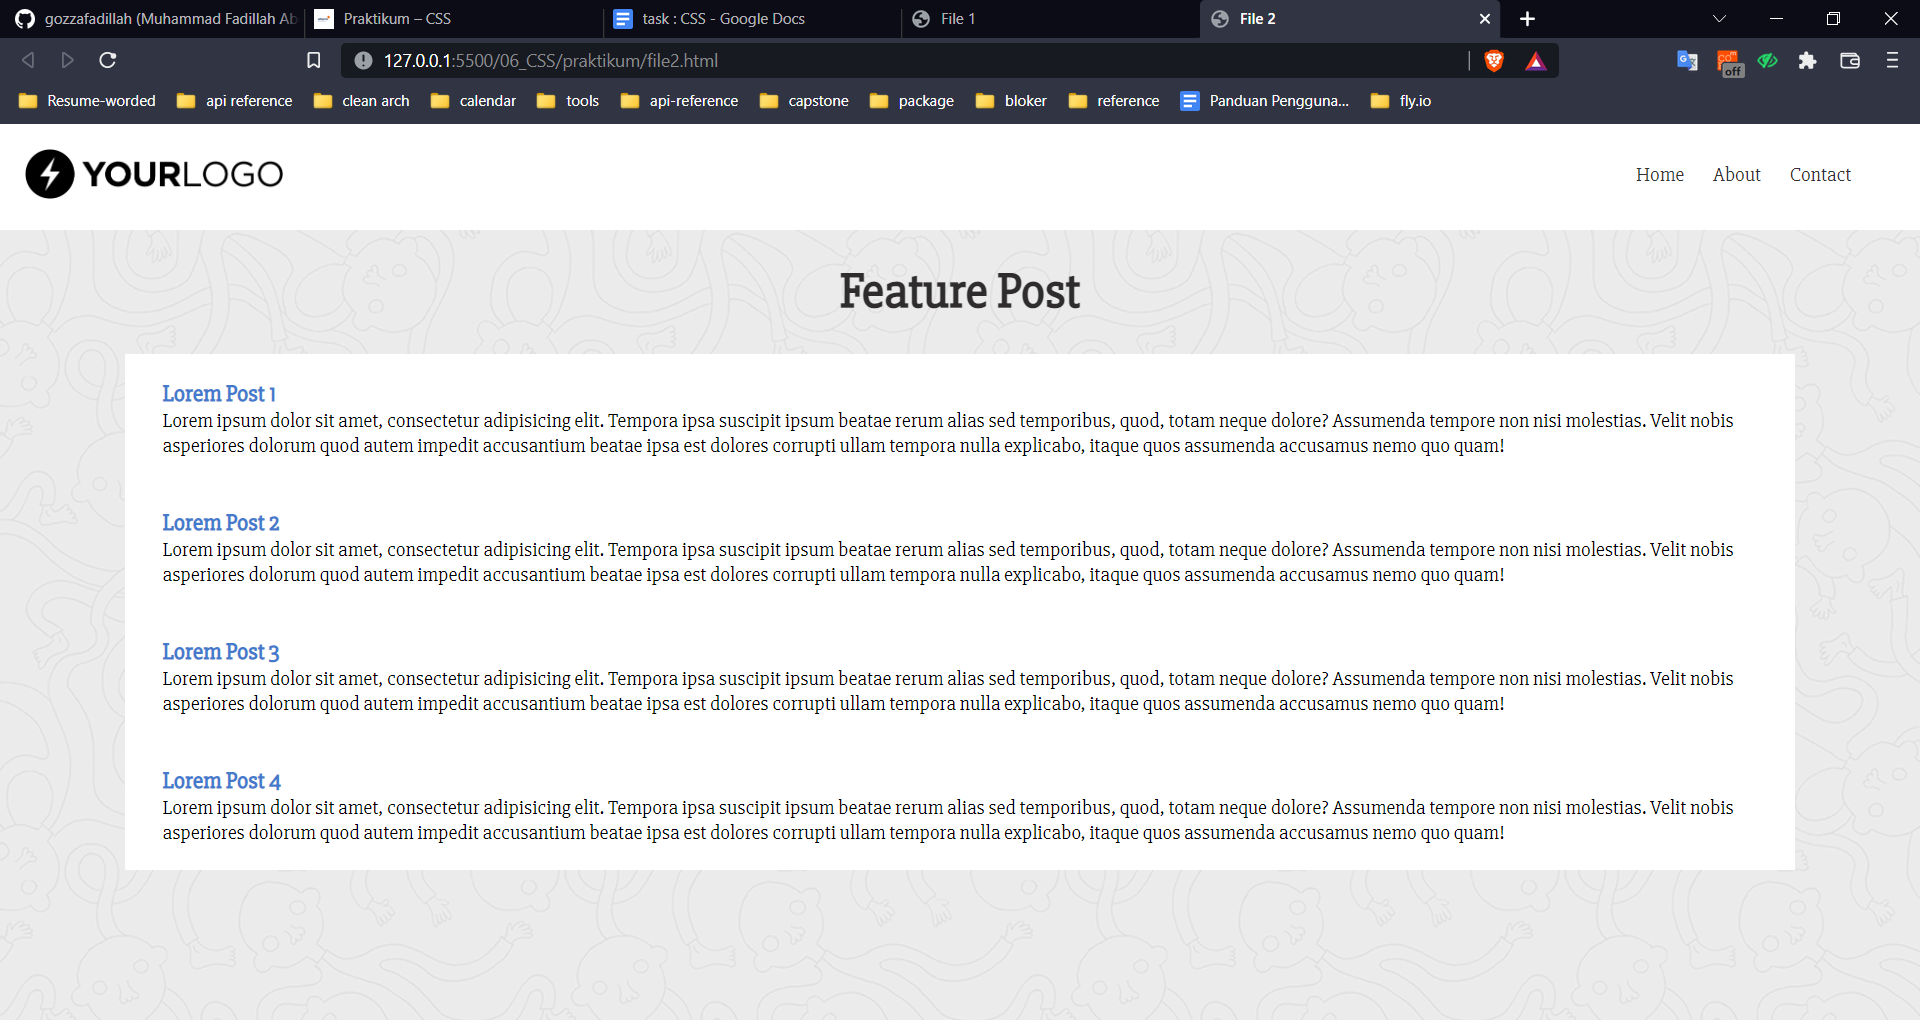
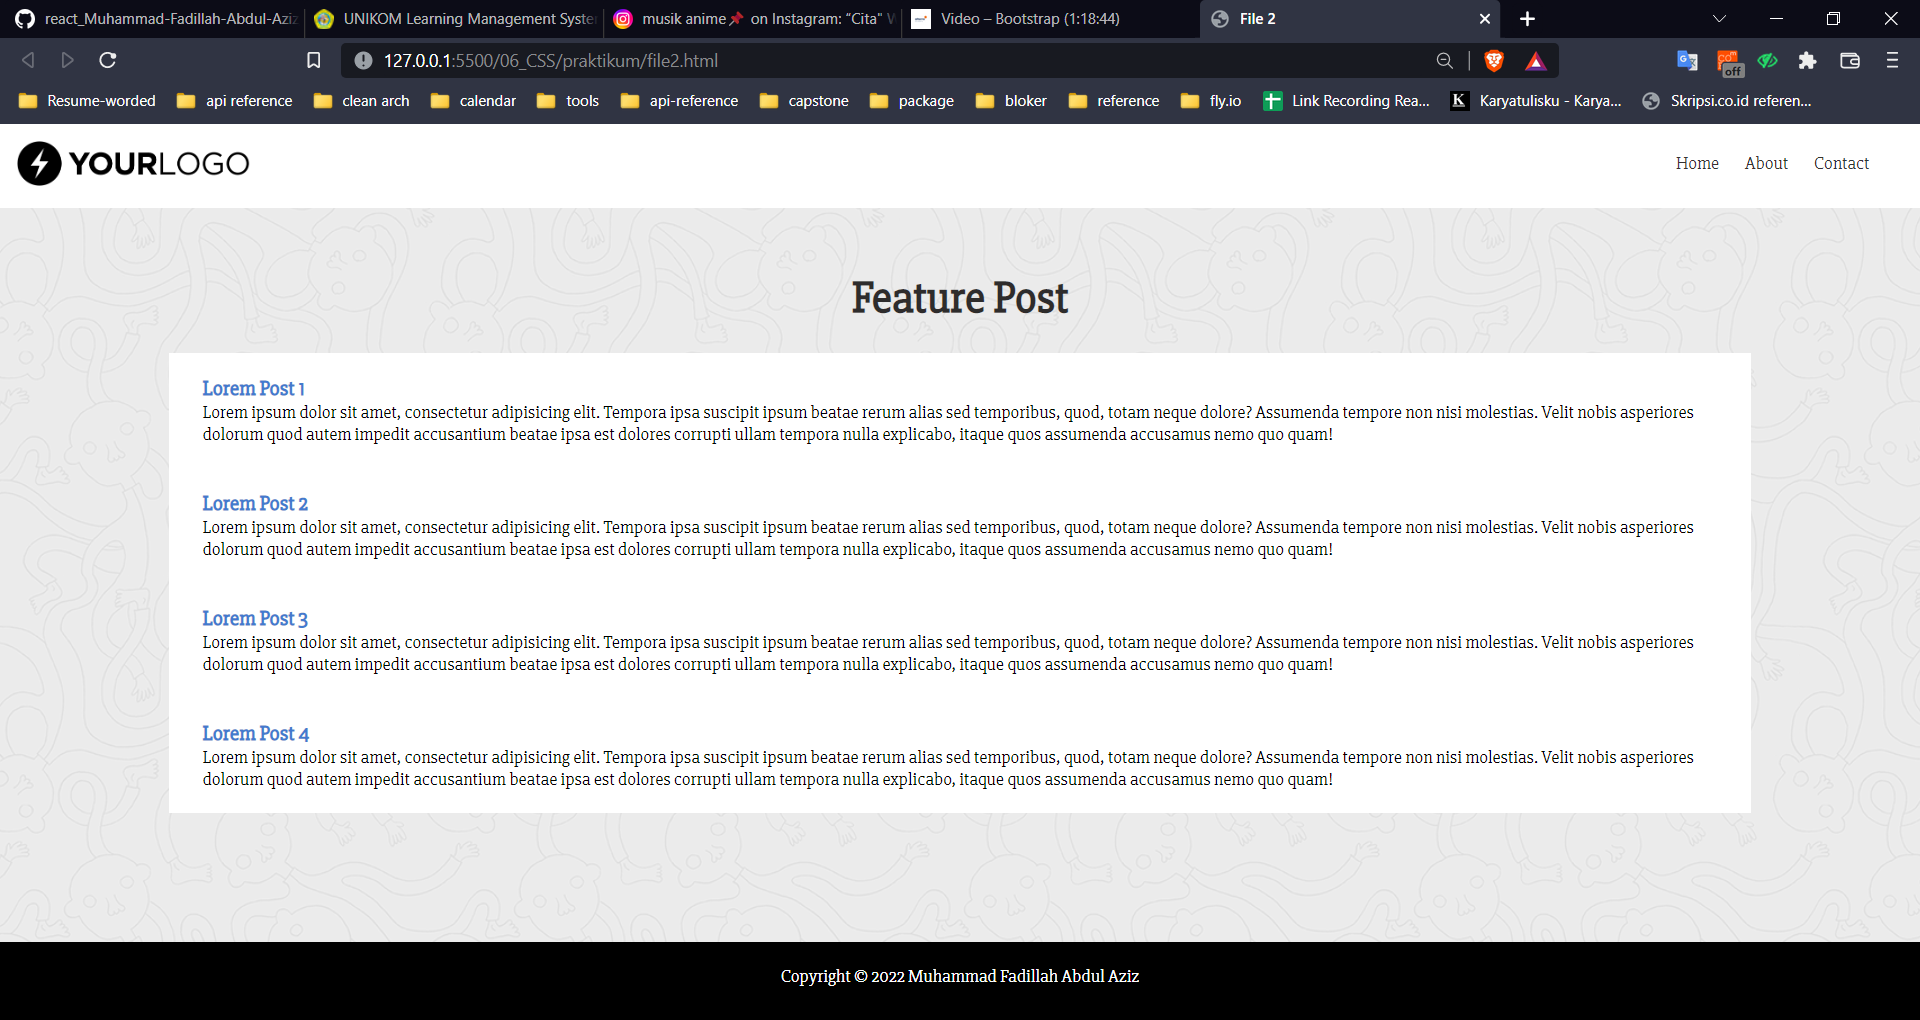
Fix/section_06: changed image praktikum file2.png and fix css for footer file2.html

diff --git a/06_CSS/praktikum/file2.html b/06_CSS/praktikum/file2.html
@@ -60,15 +60,17 @@
       color: rgb(67, 122, 206);
     }
     .feature {
-      margin: 20px 40px;
+      margin: 20px 40px 120px 40px;
       padding: 10px;
     }
     .footer {
       height: 30px;
       width: 100%;
-      margin-top: 50px;
+      margin-top: 100px;
       background-color: black;
       padding: 20px 0;
+      position: fixed;
+      bottom: 0px;
     }
     .footer-h1 {
       text-align: center;
